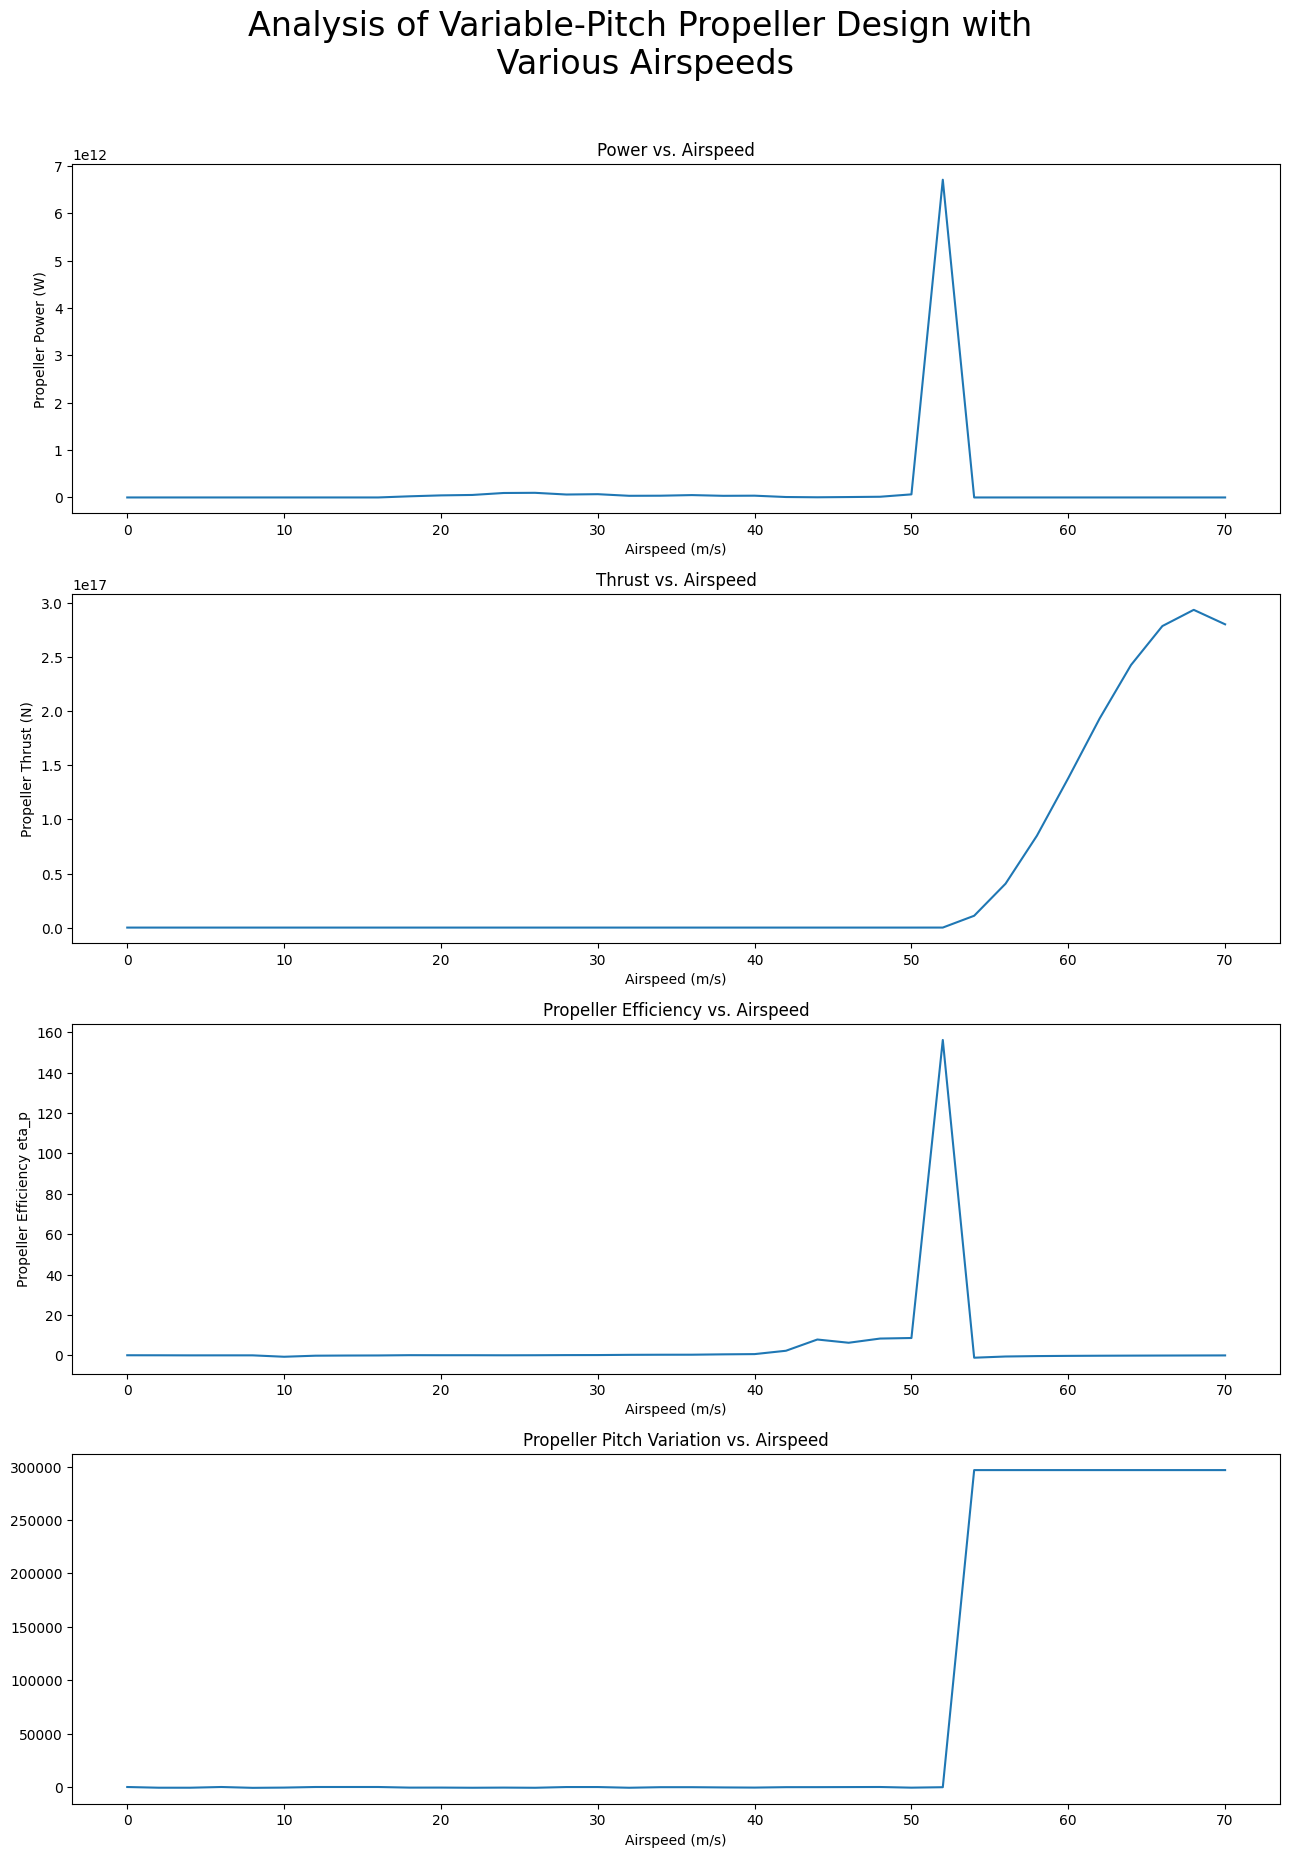
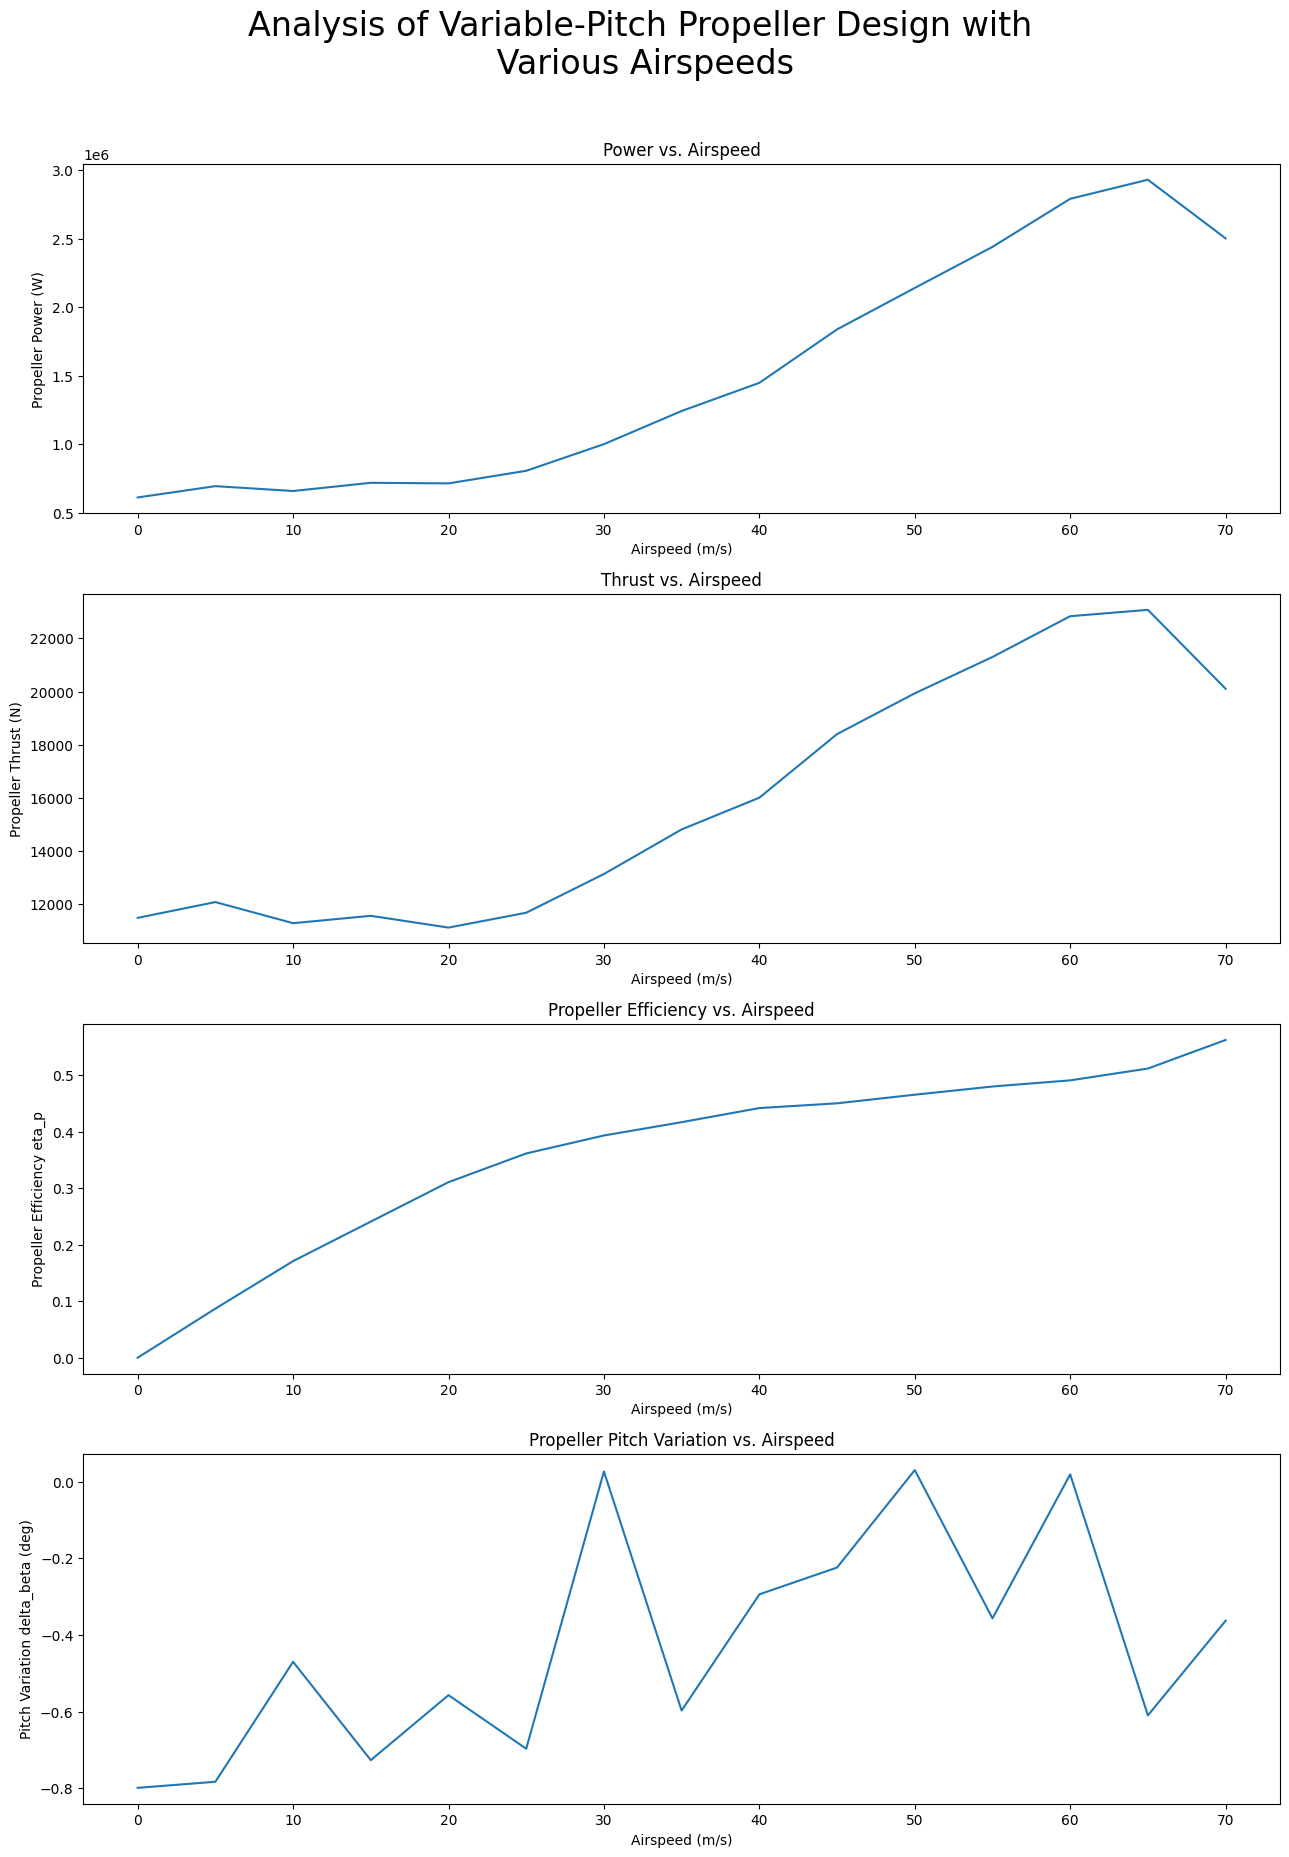
03.02.2021. XT. Debugged
All original codes commented out.
### means change from XT.

diff --git a/Python_Codes/prop_analysis_var_pitch.py b/Python_Codes/prop_analysis_var_pitch.py
@@ -8,126 +8,6 @@ from Class130 import AtmData, Propeller
 import matplotlib.pyplot as plt
 import copy
 
-'''  ### THIS IS THE ORIGINAL FUNC
-def prop_analysis_var_pitch(v_in, P_eng_data, is_HP, AtmData, Propeller, m0_fn, Cd_fn):
-    # Return deta_P, dT, delta_beta, RPM_fix
-
-    def get_P_eng(P_eng_data, RPM):
-        x: list[float] = [item[0] for item in reversed(P_eng_data)]
-        y: list[float] = [item[1] for item in reversed(P_eng_data)]
-        interp_func: PchipInterpolator = interpolate.PchipInterpolator(x, y, extrapolate=True)
-        if is_HP:
-            cur_power = 745.7 * interp_func(RPM)    # hp to W
-        else:
-            cur_power = interp_func(RPM)
-        return cur_power
-
-    """
-    Continuation of TGreenhill's propeller analysis code, for variable pitch propeller design
-
-    Outer function
-    Input:
-
-    Output:
-        deta_P: difference in efficiency
-        dT: difference in thrust
-        delta_beta: difference in pitch
-        RPM_fix: fixed RPM
-    
-    Inner function
-        get_P_eng
-    Input: 
-            P_eng_data: nx2 data set for RPM and power in hp:   [RPM, Power in hp]
-            RPM: (1/min) rotation per minute
-    Output:
-            cur_power: (W) current power at the given RPM in watt
-    
-        m0_func
-    Input:
-            Ma: mach number
-    Output:
-            m0: lift curve slope
-            
-        Cd_func
-    Input:
-            Cl: lift coefficient
-    Output:
-            Cd: drag coefficient
-
-    Call:
-            {None}
-
-    Notes:
-            1. For a single input velocity
-
-    History:
-            02.28.2021, XT. Translated to python
-    """
-    tol = 1e-6
-    iter_lim = 1e3
-    res = 1
-    iter_num = 1
-    n_fix = Propeller.RPM / 60
-    Pd_fix = 0
-    AtmData.vel = copy.deepcopy(v_in)
-    bet_original = copy.deepcopy(Propeller.bet)
-
-    while res > tol and iter_num <= iter_lim:
-        Pn_fix = get_P_eng(P_eng_data, n_fix * 60)
-        res = numpy.absolute(Pd_fix-Pn_fix)
-        J_fix, P_design_fix, _, T_design_fix, _, _, _, eta_P_fix = prop_analysis(AtmData, Propeller, m0_fn, Cd_fn)
-
-        if Pd_fix < Pn_fix:
-            n_fix = n_fix * (1 + 0.5 * (Pn_fix - Pd_fix) / (Pn_fix + Pd_fix))
-        elif Pd_fix > Pn_fix:
-            n_fix = n_fix * (1 + 0.5 * (Pn_fix - Pd_fix) / (Pn_fix + Pd_fix))
-        else:
-            break
-        iter_num += 1
-
-    # Optimize the blade beta variation for v_in. Make a good initial guess; initial values for iteration:
-    v_inf = 263.29*0.3048
-    if v_in < v_inf:
-        d_bet = -2 * numpy.pi / 180
-    else:
-        d_bet = 2 * numpy.pi / 180
-
-    iter_num = 1
-    P_design_var = 0
-    res = 1
-
-    while res > tol and iter_num <= iter_lim:
-        P_eng = get_P_eng(P_eng_data, Propeller.RPM)
-        Propeller.bet += d_bet
-        J_var, P_design_var, _, T_design_var, _, _, _, eta_P_var = prop_analysis(AtmData, Propeller, m0_fn, Cd_fn)
-        Propeller.bet = copy.deepcopy(bet_original)
-
-        P_design_var = P_design_var if P_design_var > 0 else 10*750
-        factor = numpy.absolute(1/d_bet*2*numpy.pi/180)*0.5
-        if d_bet < 0:
-            d_bet *= (1 - factor*(P_eng - P_design_var) / (P_eng + P_design_var))
-        else:
-            d_bet *= (1 + factor*(P_eng - P_design_var) / (P_eng + P_design_var))
-            if numpy.round(d_bet, 14) <= tol:
-                break
-
-        res = numpy.absolute(P_design_var-P_eng)
-        # print(res)
-        iter_num += 1
-
-        if iter_lim == iter_num:
-            print("Iteration Limit Reached")
-        
-    # print(d_bet)
-    # Difference in efficiency between fixed and variable pitch
-    deta_P = (-eta_P_fix + eta_P_var) / eta_P_fix
-    dT = (-T_design_fix + T_design_var) / T_design_fix
-    delta_beta = d_bet
-    RPM_fix = n_fix * 60
-
-    return J_var, P_design_var, T_design_var, eta_P_var, deta_P, dT, delta_beta, RPM_fix
-'''
-
 
 def prop_analysis_var_pitch(v_in, P_eng_data, is_HP, AtmData, Propeller, m0_fn, Cd_fn):
     # Return deta_P, dT, delta_beta, RPM_fix
@@ -182,8 +62,9 @@ def prop_analysis_var_pitch(v_in, P_eng_data, is_HP, AtmData, Propeller, m0_fn, 
 
     History:
             02.28.2021, XT. Translated to python
+            03.01.2021, TG. Refined
     """
-    tol = 1e-6
+    tol = 1e-3  ### Changed to debug by XT
     iter_lim = 1e3
     res = 1
     iter_num = 1
@@ -208,9 +89,11 @@ def prop_analysis_var_pitch(v_in, P_eng_data, is_HP, AtmData, Propeller, m0_fn, 
     # Optimize the blade beta variation for v_in. Make a good initial guess; initial values for iteration:
     v_inf = 263.29 * 0.3048
     if v_in < v_inf:
-        d_bet = -2 * numpy.pi / 180
+        #d_bet = -2 * numpy.pi / 180
+        d_bet = numpy.radians(-2)   ### Changed by XT
     else:
-        d_bet = 2 * numpy.pi / 180
+        #d_bet = 2 * numpy.pi / 180
+        d_bet = numpy.radians(2)    ### Changed by XT
 
     iter_num = 1
     P_design_var = 0
@@ -218,20 +101,32 @@ def prop_analysis_var_pitch(v_in, P_eng_data, is_HP, AtmData, Propeller, m0_fn, 
 
     while res > tol and iter_num <= iter_lim:
         P_eng = get_P_eng(P_eng_data, Propeller.RPM)
+        ###print(Propeller.bet[0])
         Propeller.bet += d_bet
+        ###print(Propeller.bet[0])
+        ###print(d_bet)
         J_var, P_design_var, _, T_design_var, _, _, _, eta_P_var = prop_analysis(AtmData, Propeller, m0_fn, Cd_fn)
         # Propeller.bet = copy.deepcopy(bet_original)
+        ### Instead of deepcopy, used normal assignment as deepcopy is already used for bet_original (no effect)
         Propeller.bet = bet_original
-        ### Instead of deepcopy, used normal assignment as deepcopy is already used for bet_original
+        ###print(Propeller.bet[0])
+        ###exit()
+
 
         P_design_var = P_design_var if P_design_var > 0 else 10 * 750
-        factor = numpy.absolute(1 / (d_bet * 2 * numpy.pi / 180)) * 0.5
-        ### (d_bet * 2 * numpy.pi / 180) should have parentheses (as a convertion if I am correct)
+        #factor = numpy.absolute(1 / d_bet * 2 * numpy.pi / 180) * 0.5
+        factor = numpy.absolute(1 / numpy.degrees(d_bet))
+        ### d_bet * 2 * numpy.pi / 180 simplified using numpy.degrees
+        ### Do you want to use degree or radian here?
+        ###print(d_bet)
         if d_bet < 0:
             d_bet *= (1 - factor * (P_eng - P_design_var) / (P_eng + P_design_var))
+            ###print(d_bet)
+            ###if iter_num >= 20:
+                ###exit()
         else:
             d_bet *= (1 + factor * (P_eng - P_design_var) / (P_eng + P_design_var))
-            # if numpy.round(d_bet, 14) <= tol:
+            # if numpy.round(d_bet, 14) <= tol: ### Commented out by XT
             if d_bet <= tol:
                 break
 
@@ -240,13 +135,14 @@ def prop_analysis_var_pitch(v_in, P_eng_data, is_HP, AtmData, Propeller, m0_fn, 
         iter_num += 1
 
         if iter_lim == iter_num:
-            print("Iteration Limit Reached")
+            print("Error: Iteration Limit Reached")
+            exit()      ### Added exit()
 
     # print(d_bet)
     # Difference in efficiency between fixed and variable pitch
-    deta_P = (-eta_P_fix + eta_P_var) / eta_P_fix
-    dT = (-T_design_fix + T_design_var) / T_design_fix
-    delta_beta = d_bet
+    deta_P = (-eta_P_fix + eta_P_var) / eta_P_fix           # W
+    dT = (-T_design_fix + T_design_var) / T_design_fix      # N
+    delta_beta = numpy.degrees(d_bet)       # deg   ### Converted directly to degrees by XT
     RPM_fix = n_fix * 60
 
     return J_var, P_design_var, T_design_var, eta_P_var, deta_P, dT, delta_beta, RPM_fix

diff --git a/Python_Codes/prop_design_analysis_varpitch.py b/Python_Codes/prop_design_analysis_varpitch.py
@@ -12,15 +12,15 @@ History:
 
 '''
 
-
 from prop_design_TVG import prop_design
 from prop_analysis_var_pitch import prop_analysis_var_pitch
 import numpy
 import matplotlib.pyplot as plt
 from Class130 import AtmData, Propeller
 import sys
+
 sys.path.append("../Utilities")
-#import formatfigures
+# import formatfigures
 '''
 try:
     formatfigures.formatsubfigures()
@@ -33,14 +33,15 @@ latex = False
 # Emrax 188 Engine data (continuous performance)
 # Nomeclature: enginename_voltagelevel_coolingtype
 Emrax188_HV_CC = numpy.flip(numpy.array([[0, 0],
-                            [1000, 5000],
-                            [2000, 10500],
-                            [3000, 16000],
-                            [4000, 22000],
-                            [5000, 26000],
-                            [6000, 28000]]),0)
+                                         [1000, 5000],
+                                         [2000, 10500],
+                                         [3000, 16000],
+                                         [4000, 22000],
+                                         [5000, 26000],
+                                         [6000, 28000]]), 0)
 
 is_HP = False
+
 
 def m0_fn(Ma):
     if numpy.any(Ma <= 0.9):
@@ -48,27 +49,32 @@ def m0_fn(Ma):
     else:
         return (2 * numpy.pi) / numpy.sqrt(1 - 0.9 ** 2)
 
+
 def Cd_fn(Cl):
-    return 0.0095 + 0.0040 * (Cl - 0.2) ** 2    
+    return 0.0095 + 0.0040 * (Cl - 0.2) ** 2
+
 
 # Variable pitch analysis
 # Design a propeller with the hover conditions 
-radius = 1.78/2
+radius = 1.78 / 2
 LD = 15
 is_SI = True
 numB = 3
-T_req = 13000/8*2 #N (TOGW/(L/D))
+T_req = 13000 / 8 * 2  # N (TOGW/(L/D))
 Cl = 0.4
 alp0 = numpy.radians(-2)
-v_design = 30 #IDK why I'm choosing this, lol. Just trying to debug since the code isn't behaving
-atm = AtmData(v_design, 6000*0.3048, is_SI)
+#v_design = 30  # IDK why I'm choosing this, lol. Just trying to debug since the code isn't behaving
+v_design = 60   ### changed by XT
+atm = AtmData(v_design, 6000 * 0.3048, is_SI)
 atm.expand(1.4, 287)
-v_seq = numpy.arange(0,72,2)
+#v_seq = numpy.arange(0, 72, 2)
+v_seq = numpy.arange(0, 75, 5)  ### Changed by XT
 prop = Propeller(radius, numB, 3000, eta_P=0, CP=0, CT=0, CQ=0, Cl=0.4)
 r, prop.chord, prop.bet, P_design, T_design, Q_design, eta_P, prop.theta = prop_design(atm, prop, T_req, m0_fn, Cd_fn)
 
 ll = numpy.size(v_seq)
 
+'''
 J_var = numpy.zeros((ll,))
 P_design_Var = numpy.zeros((ll,))
 T_design_var = numpy.zeros((ll,))
@@ -77,44 +83,53 @@ deta_P = numpy.zeros((ll,))
 dT = numpy.zeros((ll,))
 delta_bet = numpy.zeros((ll,))
 RPM_fix = numpy.zeros((ll,))
+'''
+### Changed to [0] * ll for quicker allocation
+J_var = [0] * ll
+P_design_Var = [0] * ll
+T_design_var = [0] * ll
+eta_P_var = [0] * ll
+deta_P = [0] * ll
+dT = [0] * ll
+delta_bet = [0] * ll
+RPM_fix = [0] * ll
 
 # Analyze the propeller with the variable pitch propeller function
 for ii in range(ll):
-    J_var[ii], P_design_Var[ii], T_design_var[ii], eta_P_var[ii], deta_P[ii], dT[ii], delta_bet[ii], RPM_fix[ii] = prop_analysis_var_pitch(v_seq[ii], Emrax188_HV_CC, is_HP, atm, prop, m0_fn, Cd_fn)
+    J_var[ii], P_design_Var[ii], T_design_var[ii], eta_P_var[ii], deta_P[ii], dT[ii], delta_bet[ii], RPM_fix[
+        ii] = prop_analysis_var_pitch(v_seq[ii], Emrax188_HV_CC, is_HP, atm, prop, m0_fn, Cd_fn)
 
-### Following is changed by XT
+### Following is changed by XT, see original commented out below
 plt.figure(figsize=(13, 19.5))
-plt.subplot(4,1,1)
-plt.plot(v_seq,P_design_Var)
+plt.subplot(4, 1, 1)
+plt.plot(v_seq, P_design_Var)
 plt.xlabel("Airspeed (m/s)")
 plt.ylabel("Propeller Power (W)")
 plt.gca().set_title("Power vs. Airspeed")
 
-plt.subplot(4,1,2)
-plt.plot(v_seq,T_design_var)
+plt.subplot(4, 1, 2)
+plt.plot(v_seq, T_design_var)
 plt.xlabel("Airspeed (m/s)")
 plt.ylabel("Propeller Thrust (N)")
 plt.gca().set_title("Thrust vs. Airspeed")
 
-plt.subplot(4,1,3)
-plt.plot(v_seq,eta_P_var)
+plt.subplot(4, 1, 3)
+plt.plot(v_seq, eta_P_var)
 plt.xlabel("Airspeed (m/s)")
 plt.ylabel("Propeller Efficiency eta_p")
 plt.gca().set_title("Propeller Efficiency vs. Airspeed")
 
-plt.subplot(4,1,4)
-plt.plot(v_seq,delta_bet*180/numpy.pi)
+plt.subplot(4, 1, 4)
+plt.plot(v_seq, delta_bet)      ### Fixed list / float issue, simplified by XT (changed to already deg from function)
 plt.xlabel("Airspeed (m/s)")
-# plt.ylabel("Pitch Variation $\delta_{\beta}$")
+plt.ylabel("Pitch Variation delta_beta (deg)")
 plt.gca().set_title("Propeller Pitch Variation vs. Airspeed")
 
 plt.tight_layout(rect=(0, 0.03, 1, 0.92))
-plt.suptitle("Analysis of Variable-Pitch Propeller Design with \n Various Airspeeds ",fontsize=24)
+plt.suptitle("Analysis of Variable-Pitch Propeller Design with \n Various Airspeeds ", fontsize=24)
 plt.savefig('./Figures/variable_pitch_analysis.png', bbox_inches='tight')
 
 plt.show()
-
-
 
 ### Original plot codes (I don't have latex so I pasted to avoid overwriting)
 '''

diff --git a/Python_Codes/prop_design_TVG.py b/Python_Codes/prop_design_TVG.py
@@ -11,7 +11,7 @@ import formatfigures        ### Commented out by XT
 import warnings
 warnings.filterwarnings("ignore")
 
-'''
+''' ### Commented out by XT
 try:
     formatfigures.formatfigures()
     latex = True
